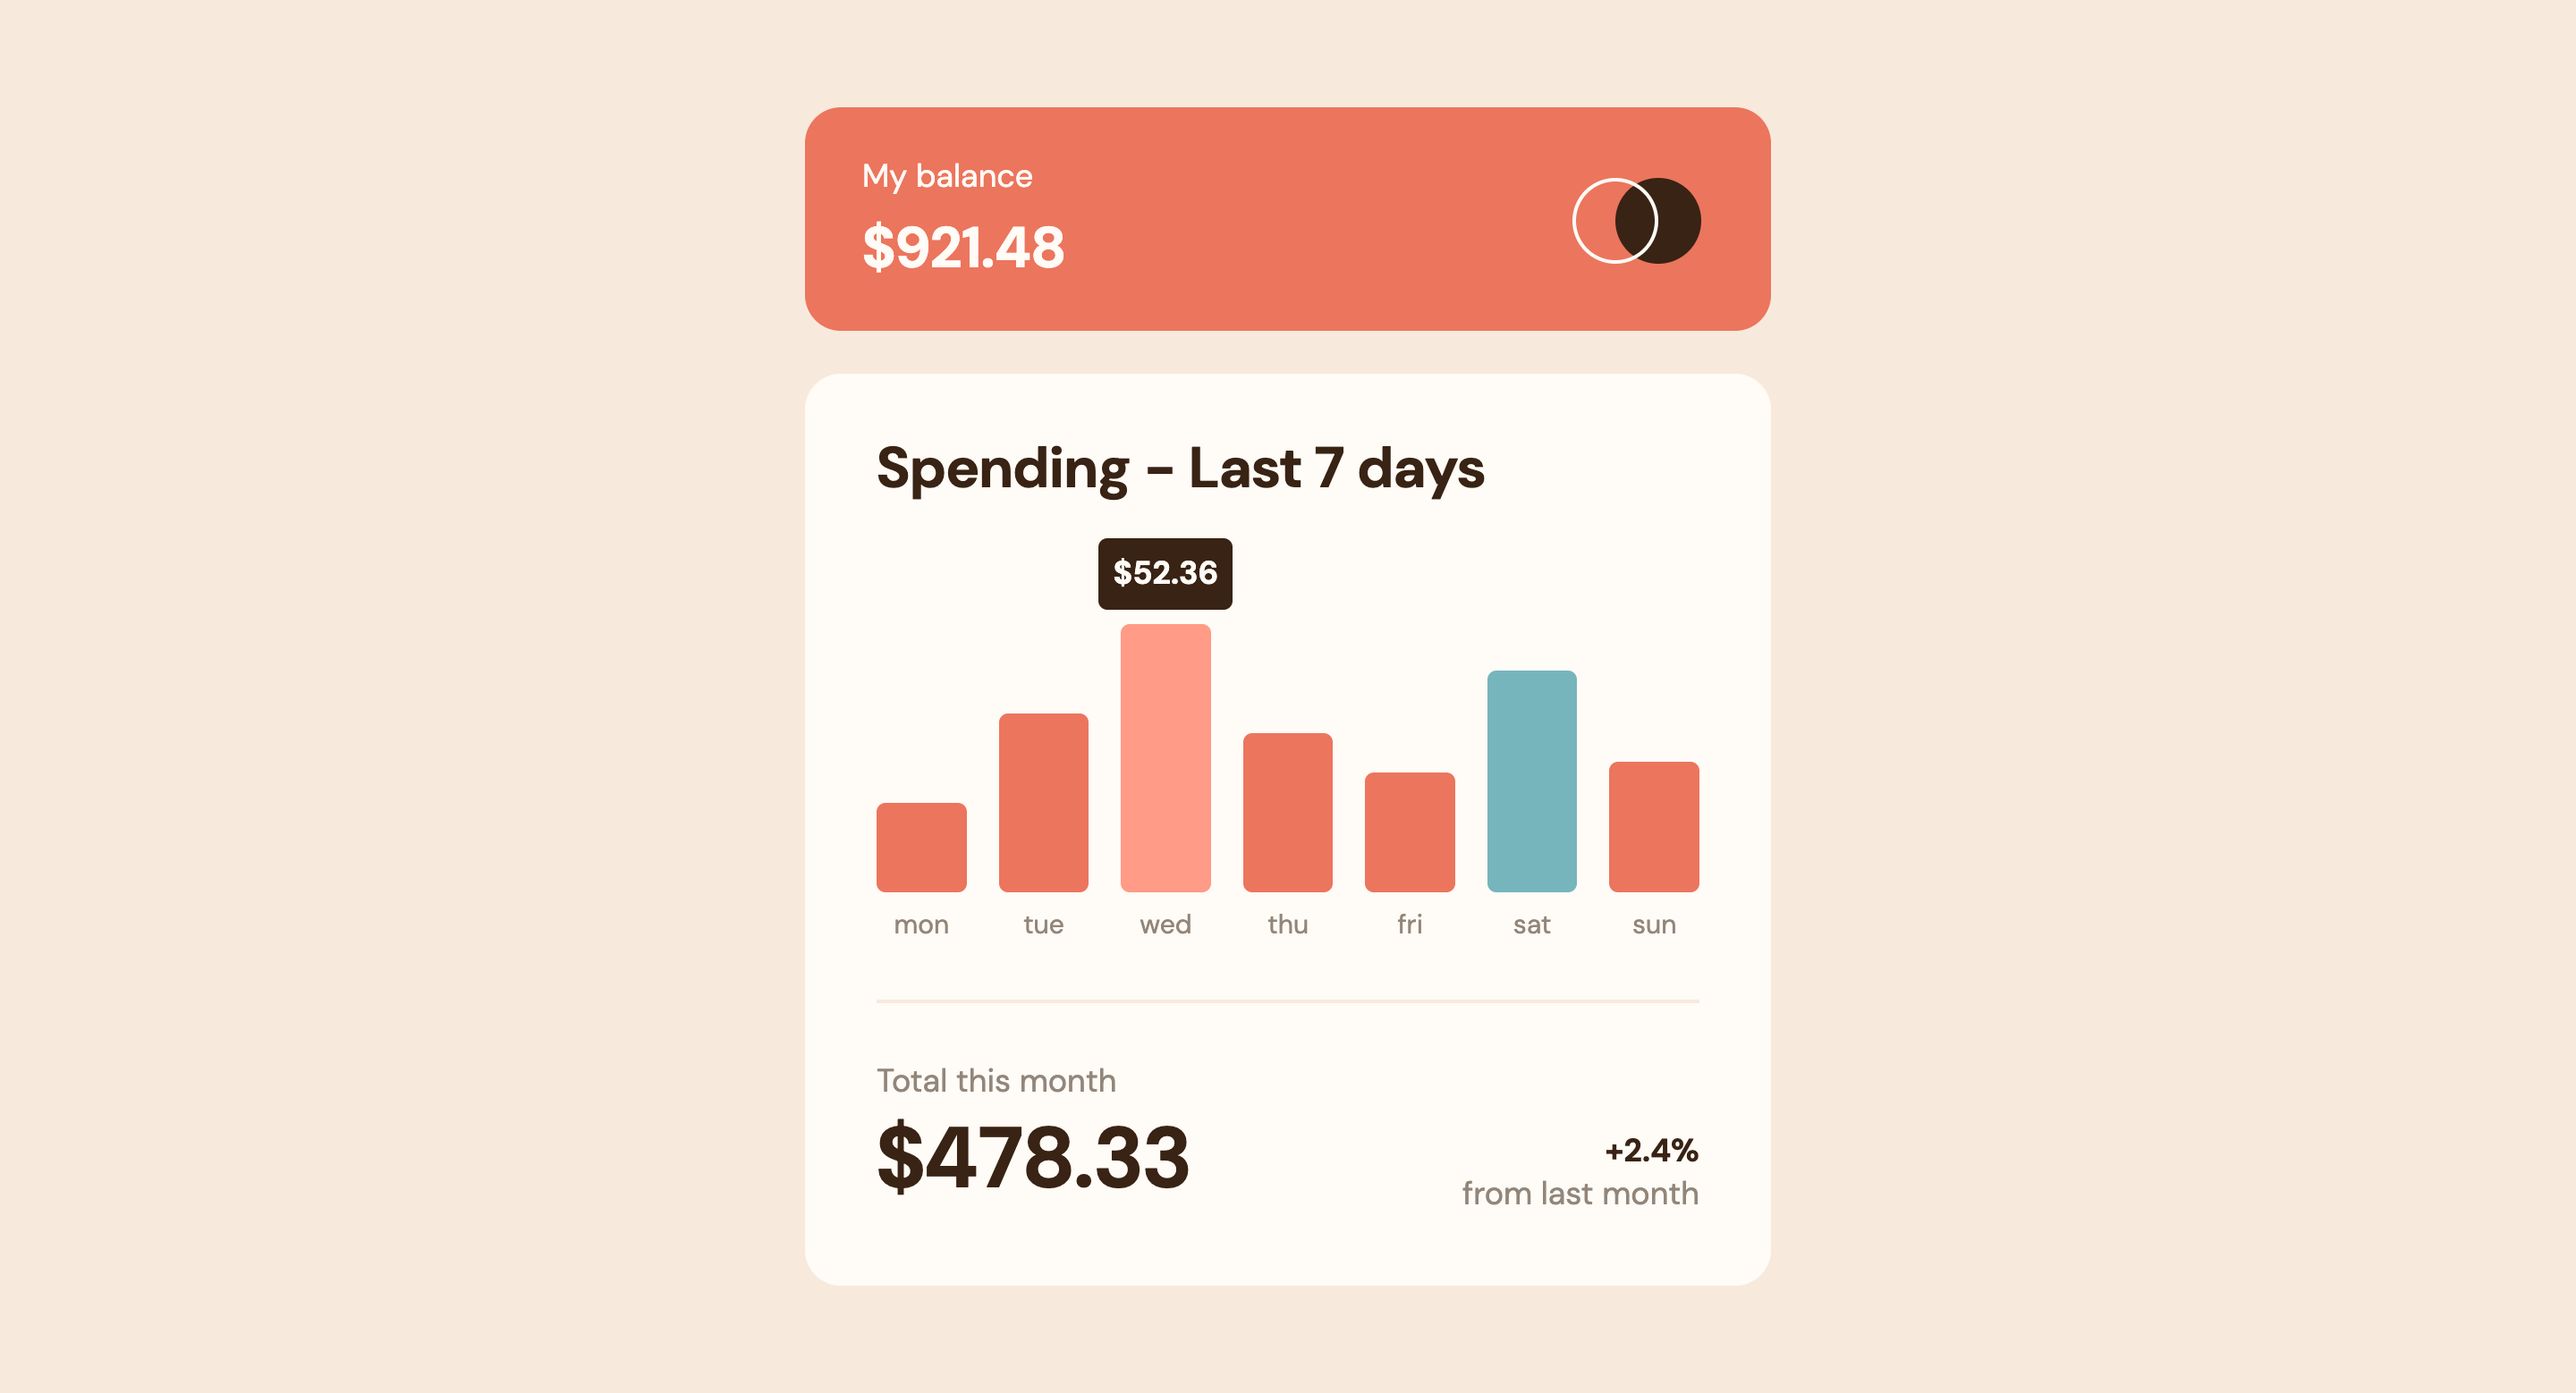
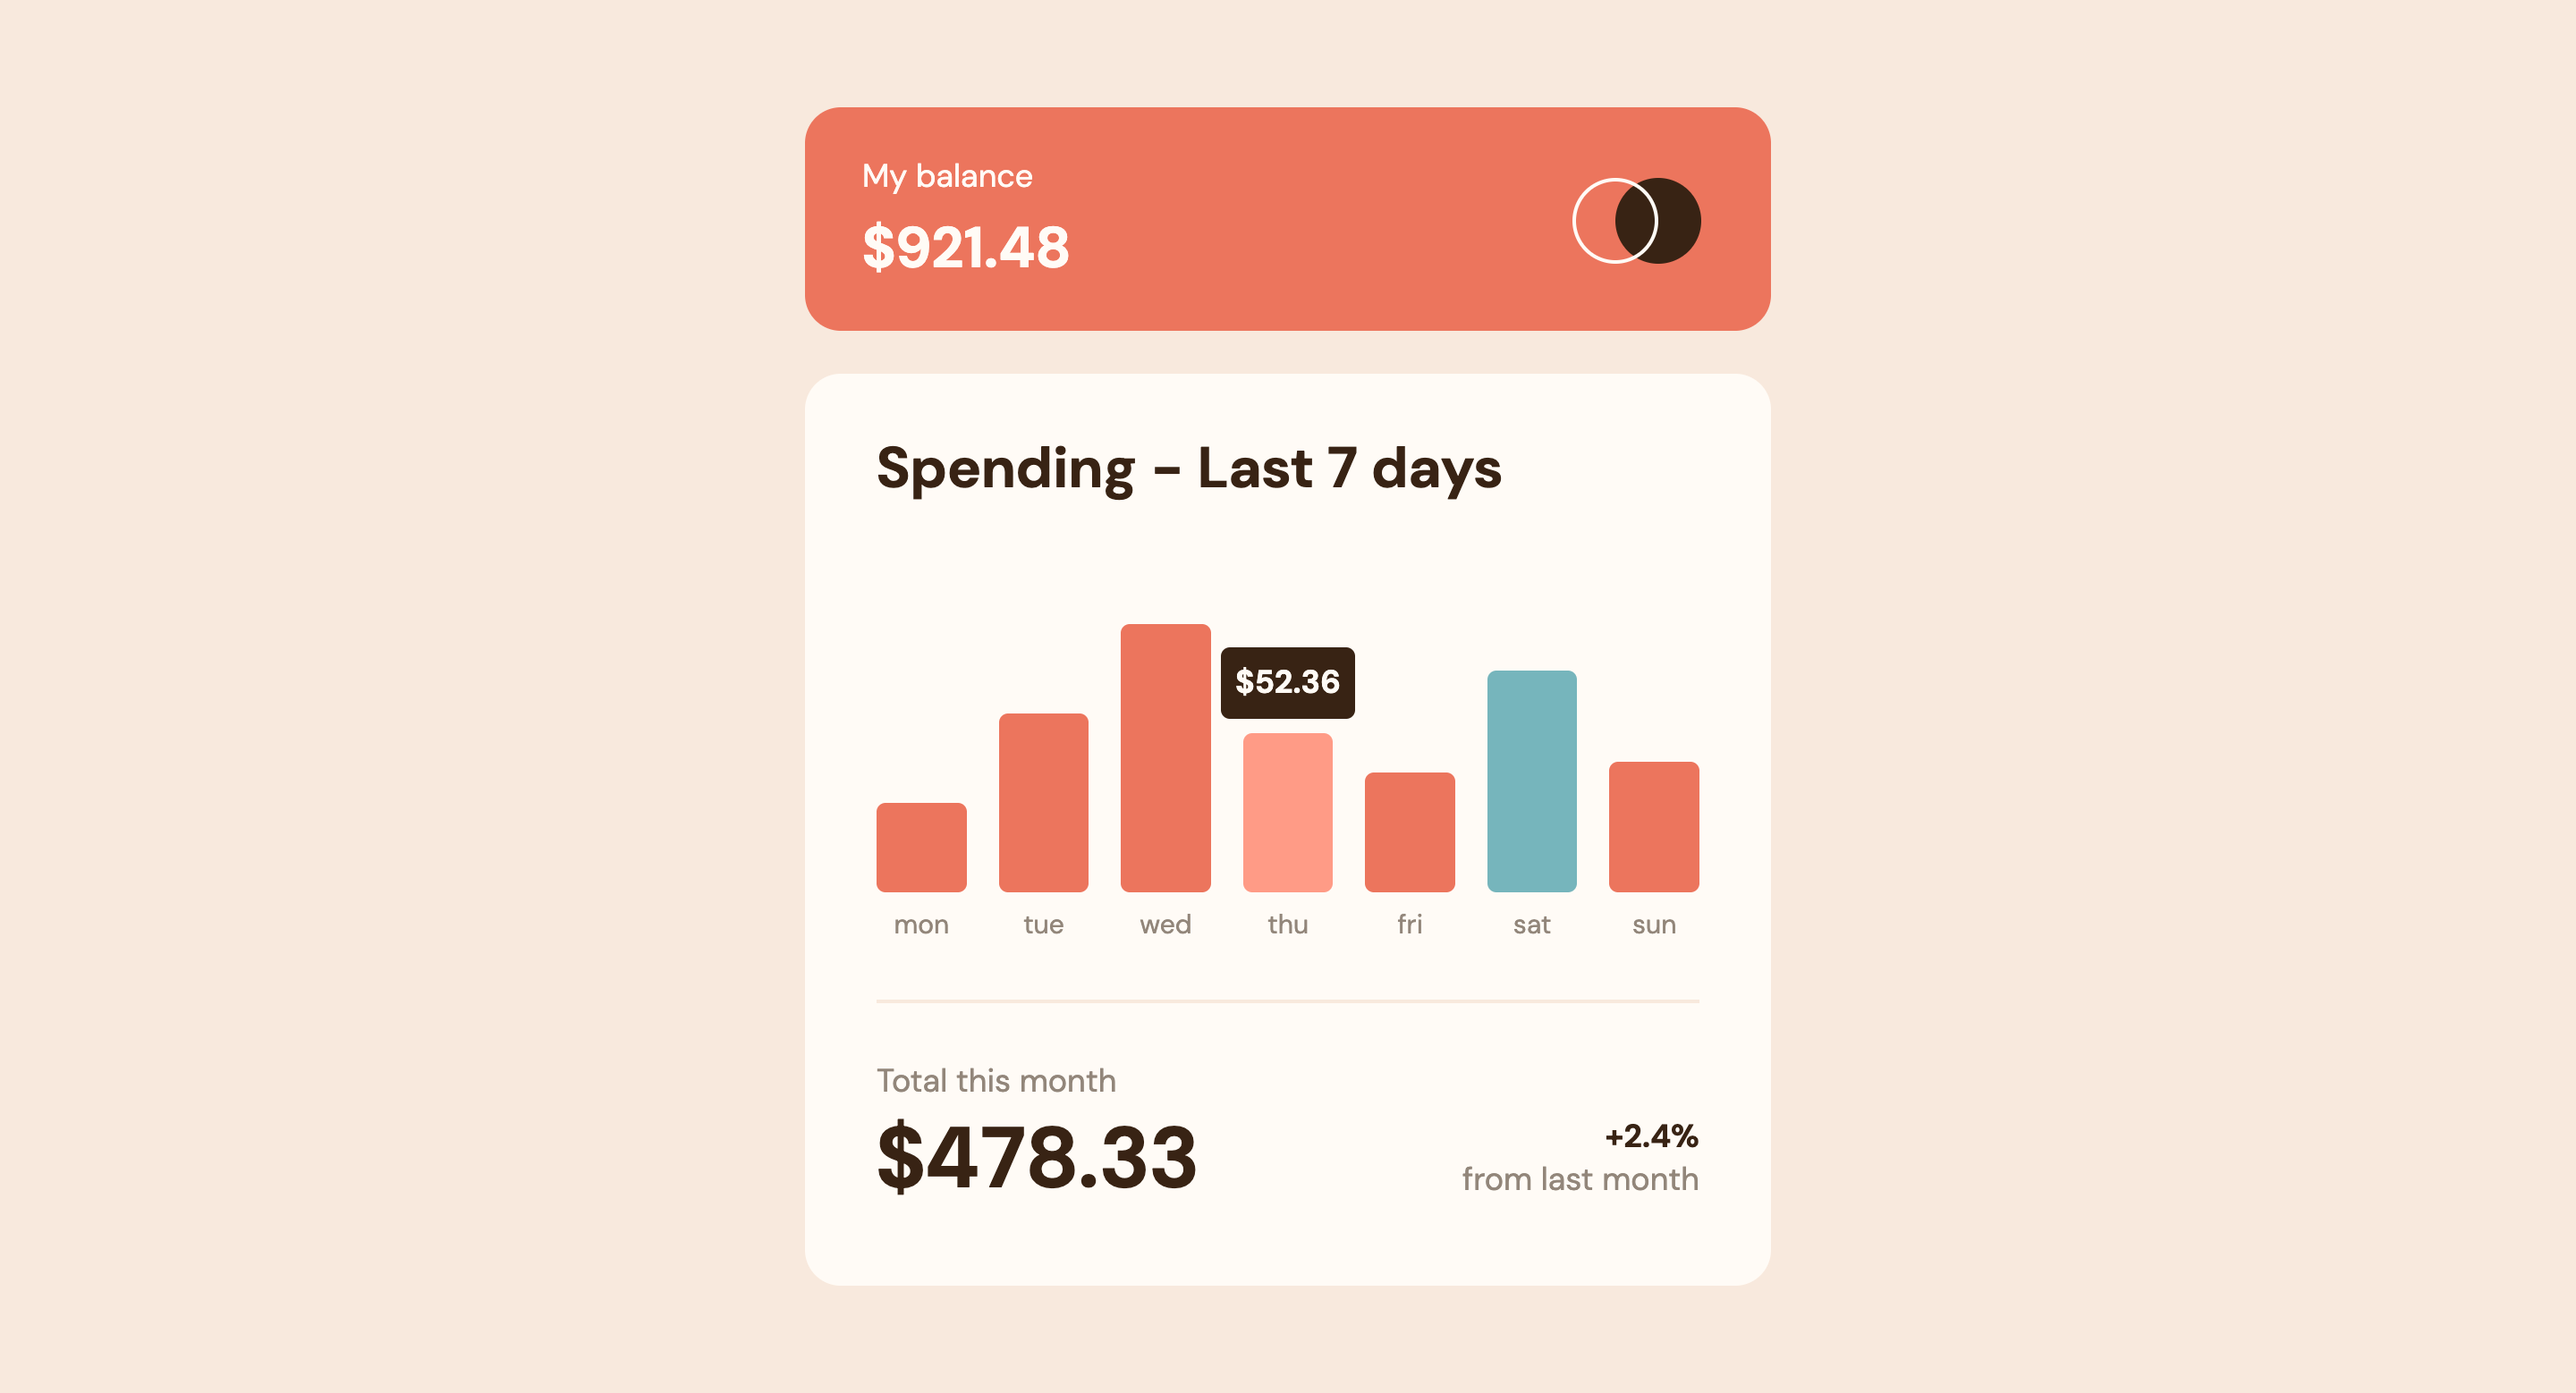
Add files via upload

diff --git a/js/main.js b/js/main.js
@@ -1,29 +1,29 @@
 import data from './data.js';
 
-// const counterElements = document.querySelectorAll('.counter');
-// const animationSpeed = 200;
+const counterElements = document.querySelectorAll('.counter');
+const animationSpeed = 200;
 
-// counterElements.forEach(counterElement => {
-//     animateCounter(counterElement, animationSpeed);
-// });
+counterElements.forEach(counterElement => {
+    animateCounter(counterElement, animationSpeed);
+});
 
-// function animateCounter(counterElement, animationSpeed) {
-//     const animate = () => {
-//         const value = +counterElement.dataset.value;
-//         const data = +counterElement.textContent;
+function animateCounter(counterElement, animationSpeed) {
+    const animate = () => {
+        const value = +counterElement.dataset.value;
+        const data = +counterElement.textContent;
 
-//         const time = value / animationSpeed;
+        const time = value / animationSpeed;
 
-//         if (data < value) {
-//             counterElement.textContent = +((data + time).toFixed(2));
-//             setTimeout(animate, 1);
-//         } else {
-//             counterElement.textContent = value;
-//         }
-//     };
+        if (data < value) {
+            counterElement.textContent = +((data + time).toFixed(2));
+            setTimeout(animate, 1);
+        } else {
+            counterElement.textContent = value;
+        }
+    };
 
-//     animate();
-// }
+    animate();
+}
 
 const days = ['sun', 'mon', 'tue', 'wed', 'thu', 'fri', 'sat'];
 const currentDayIndex = new Date().getDay();
@@ -36,7 +36,7 @@ for (const barItem of barItems) {
 
     bar.style.height = pixelData.find(e => e.day === subtitle.textContent).amount;
 
-    // bar.classList.toggle('chart__spending-list-item-bar--today', subtitle.textContent === days[currentDayIndex]);
+    bar.classList.toggle('chart__spending-list-item-bar--today', subtitle.textContent === days[currentDayIndex]);
 }
 
 function culcPixelHeight(arr, fullHeight) {

diff --git a/scss/style.scss b/scss/style.scss
@@ -29,54 +29,54 @@ $hover: .2s ease-in;
 }
 
 // Animation
-// @keyframes chart {
-//     0% {
-//         transform: scale(1.02);
-//         opacity: 0.5;
-//     }
-//     25% {
-//         transform: scale(1.05);
-//     }
-//     50% {
-//         transform: scale(1);
-//         opacity: 1;
-//     }
-//     75% {
-//         transform: scale(1.02);
-//     }
-//     100% {
-//         transform: scale(1);
-//     }
-// }
+@keyframes chart {
+    0% {
+        transform: scale(1.02);
+        opacity: 0.5;
+    }
+    25% {
+        transform: scale(1.05);
+    }
+    50% {
+        transform: scale(1);
+        opacity: 1;
+    }
+    75% {
+        transform: scale(1.02);
+    }
+    100% {
+        transform: scale(1);
+    }
+}
 
-// @keyframes counter {
-//     0% {
-//         opacity: 0.5;
-//     }
-//     100% {
-//         opacity: 1;
-//     }
-// }
+@keyframes counter {
+    0% {
+        opacity: 0.5;
+    }
+    100% {
+        opacity: 1;
+    }
+}
 
-// @keyframes plus {
-//     0%,
-//     65% {
-//         transform: translateY(-30px);
-//         opacity: 0;
-//     }
-//     100% {
-//         transform: translateY(0px);
-//         opacity: 1;
-//     }
-// }
+@keyframes plus {
+    0%,
+    65% {
+        transform: translateY(-30px);
+        opacity: 0;
+    }
+    100% {
+        transform: translateY(0px);
+        opacity: 1;
+    }
+}
 
-// @keyframes logo {
-//     0%,
-//     33% {
-//         transform: translateX(0px);
-//     }
-//     100% {}
-// }
+@keyframes logo {
+    0%,
+    33% {
+        transform: translateX(0px);
+    }
+    100% {}
+}
 
 // General
 body {

diff --git a/index.html b/index.html
@@ -20,7 +20,7 @@
           <p class="chart__balance-content">
             <span class="chart__balance-content-subtitle">My balance</span>
             <span class="chart__balance-content-count">
-              $<span class="counter" data-value="921.48">921.48</span>
+              $<span class="counter" data-value="921.48">0</span>
             </span>
           </p>
           <div class="chart__balance-logo">
@@ -39,7 +39,7 @@
               <span class="chart__spending-list-item-subtitle">tue</span>
             </li>
             <li class="chart__spending-list-item">
-              <div class="chart__spending-list-item-bar chart__spending-list-item-bar--today"></div>
+              <div class="chart__spending-list-item-bar"></div>
               <span class="chart__spending-list-item-subtitle ">wed</span>
             </li>
             <li class="chart__spending-list-item">
@@ -63,7 +63,7 @@
             <p class="chart__spending-total-this-month">
               <span class="chart__spending-total-this-month-subtitle">Total this month</span>
               <span class="chart__spending-total-this-month-count">
-                $<span class="counter" data-value="478.33">478.33</span>
+                $<span class="counter" data-value="478.33">0</span>
               </span>
             </p>
             <p class="chart__spending-total-last-month">

diff --git a/css/style.css b/css/style.css
@@ -1,3 +1,47 @@
+@keyframes chart {
+  0% {
+    transform: scale(1.02);
+    opacity: 0.5;
+  }
+  25% {
+    transform: scale(1.05);
+  }
+  50% {
+    transform: scale(1);
+    opacity: 1;
+  }
+  75% {
+    transform: scale(1.02);
+  }
+  100% {
+    transform: scale(1);
+  }
+}
+@keyframes counter {
+  0% {
+    opacity: 0.5;
+  }
+  100% {
+    opacity: 1;
+  }
+}
+@keyframes plus {
+  0%,
+    65% {
+    transform: translateY(-30px);
+    opacity: 0;
+  }
+  100% {
+    transform: translateY(0px);
+    opacity: 1;
+  }
+}
+@keyframes logo {
+  0%,
+    33% {
+    transform: translateX(0px);
+  }
+}
 body {
   font-family: "DM Sans", sans-serif;
   background-color: #F8E9DD;
